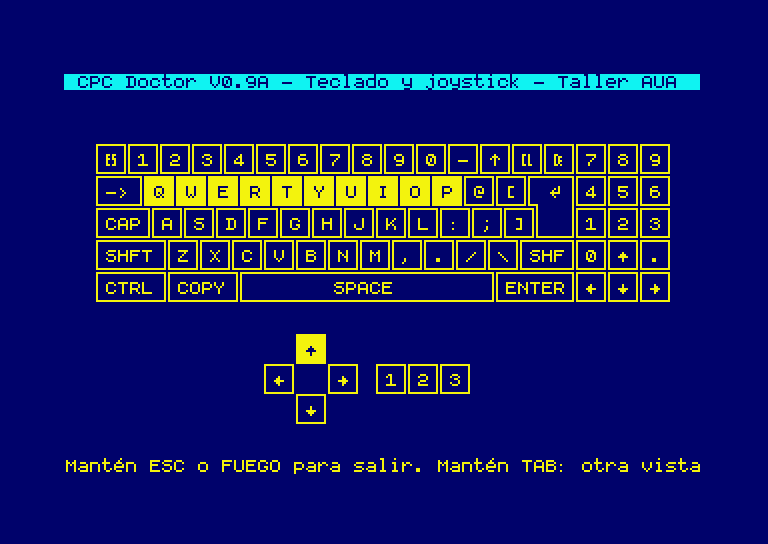
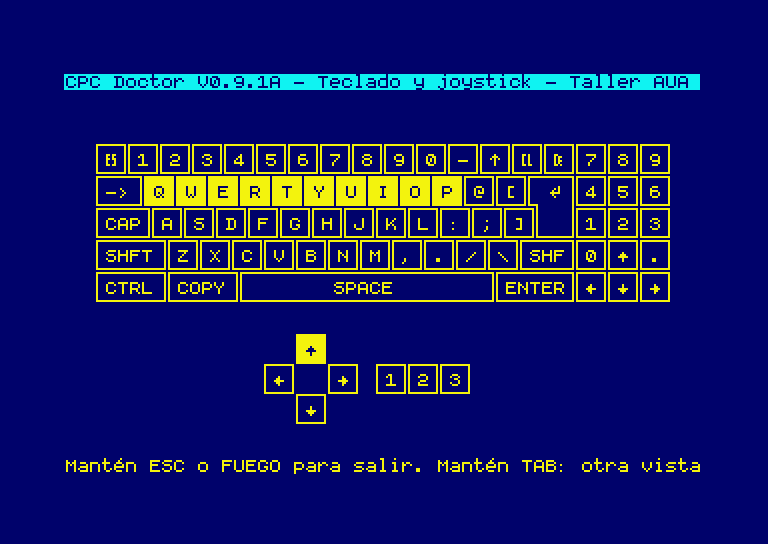
CPC Doctor 0.9.1

Changed region(s): [[0.0938, 0.125, 0.6875, 0.1875], [0.7188, 0.125, 0.9062, 0.1562]]

diff --git a/README.md b/README.md
@@ -111,7 +111,7 @@ Otras piezas de terceros:
 
 ## Estado
 
-Versión **0.9**. Se han probado en un **CPC 464 real** (con M4 Board y la ROM
+Versión **0.9.1**. Se han probado en un **CPC 464 real** (con M4 Board y la ROM
 del 6128): la carga, la identificación, la pregunta del modelo, el teclado y el
 joystick, el sonido (que encontró una avería real en el chip AY), la RAM baja,
 la prueba continua, la ayuda y la salida al BASIC.
@@ -180,7 +180,7 @@ after loading (for example, because the keyboard is dead), the tests that need
 no answers run by themselves and end on the summary.
 
 Build with `./build.sh` (sjasmplus ≥ 1.21, Python 3) and run the automated tests
-with `tests/run.sh`. Version 0.9 has been partly tested on a real CPC 464; see
+with `tests/run.sh`. Version 0.9.1 has been partly tested on a real CPC 464; see
 [docs/VALIDACION.md](docs/VALIDACION.md).
 
 **Disclaimer:** CPC Doctor is provided as is, without warranty of any kind (MIT

diff --git a/CHANGELOG.md b/CHANGELOG.md
@@ -1,6 +1,6 @@
 # Cambios
 
-## Sin publicar
+## 0.9.1
 
 ### Nuevo
 - Teclado: detecta teclas que se encienden a la vez (líneas o columnas de la
